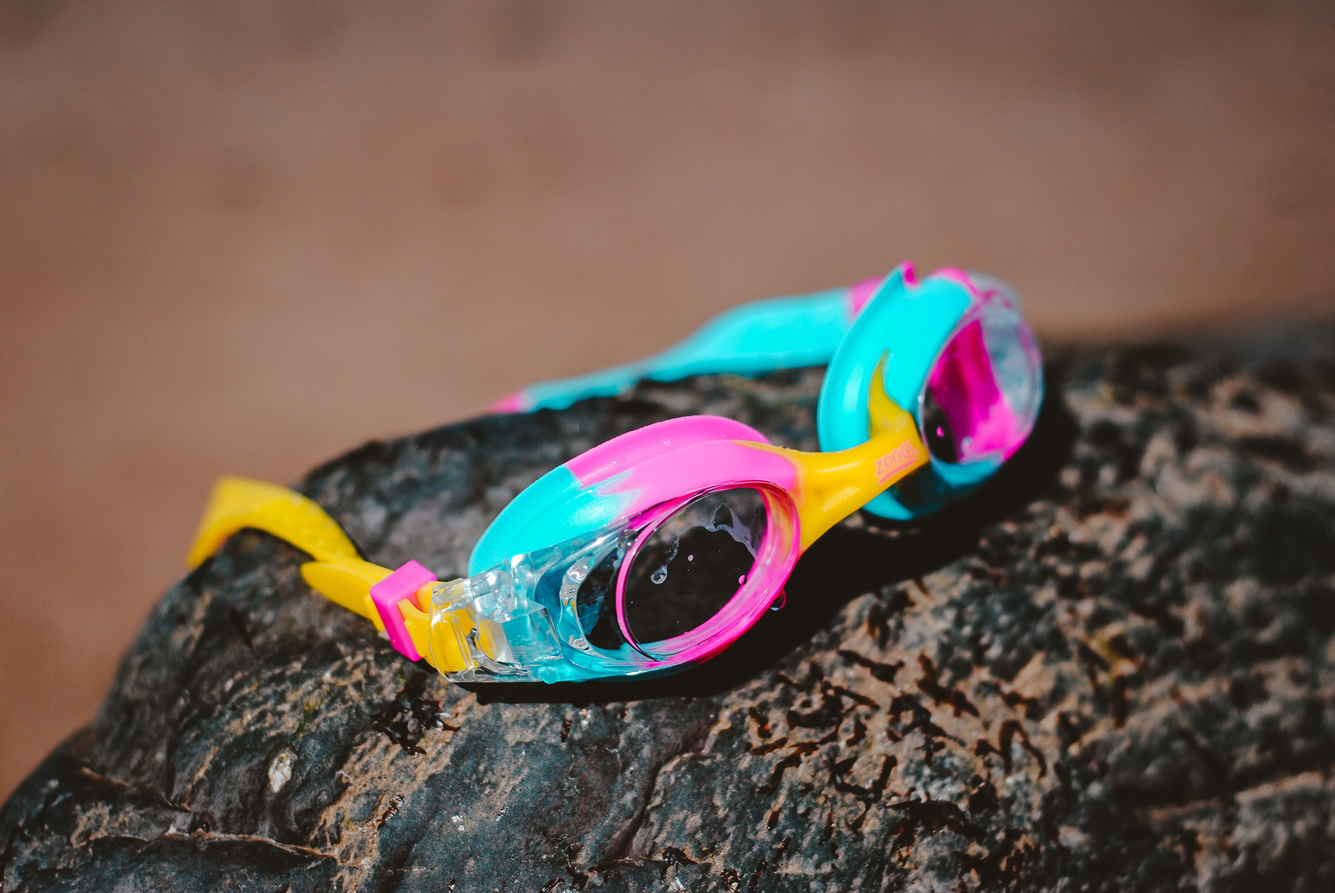
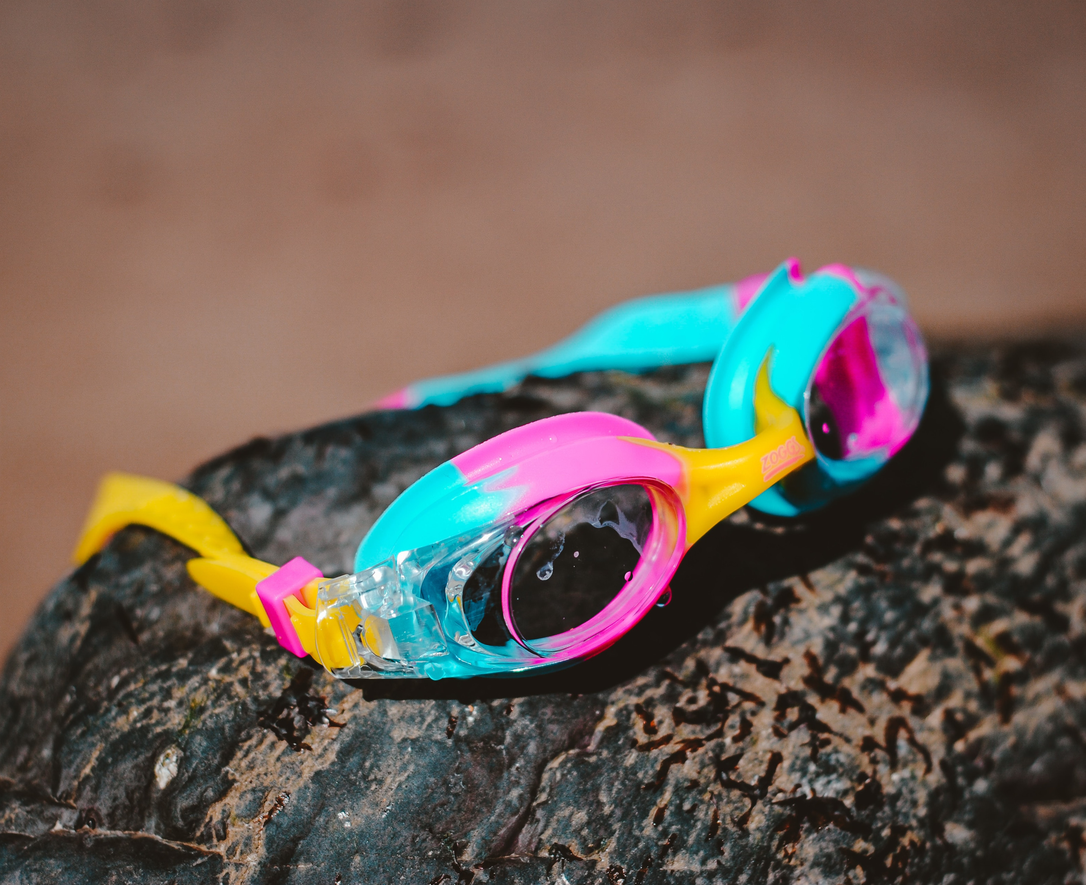
Header

diff --git a/src/stylesheets/Header.css b/src/stylesheets/Header.css
@@ -1,19 +1,70 @@
-.header-container{
+.header-container {
   display: grid;
-  width:100%;
-  min-height: 75%;
-  background-color:#00ffff;
+  grid-template-columns: repeat(1fr, 12);
+  grid-template-rows: repeat(1fr, 2);
+  gap: 0.5%;
+  width: 100vw;
+  margin: 0 10px;
+  min-height: 40vh;
   background-image: url('../images/kids-ball.jpg')
 }
 
-.header-logo{
-  display: grid;
-  grid-template-columns: 1/2;
-  grid-template-rows: 1/2;
+.header-logo-container {
+  grid-column: 1/3;
+  grid-row: 1/2;
+  display: flex;
+  flex-wrap:nowrap;
+  flex-direction: row;
+  align-items: center;
+  justify-content: space-around;
+  align-content: space-around;
+  font-family: Cookie, Arial, Helvetica, sans-serif;
+  text-shadow: 2px 2px 5px #000000;
+  font-size: 3em;
+  color: #ffffff;
 }
 
-.header-navbar{
-  display: grid;
-  grid-template-columns: 3/10;
-  grid-template-rows: 1/2;
+.header-navbar-container {
+  grid-column: 3/10;
+  grid-row: 1/2;
+  display: flex;
+  flex-wrap:nowrap;
+  flex-direction: row;
+  align-items: center;
+  justify-content: space-around;
+  align-content: space-around;
+  text-shadow: 2px 2px 5px #000000;
+  font-family: Lato, sans-serif;
+  font-size: 0.75em;
+  color: #ffffff;
 }
+
+.header-log-container {
+  grid-column: 10/12;
+  grid-row: 1/2;
+  display: flex;
+  flex-wrap:nowrap;
+  flex-direction: row;
+  align-items: center;
+  justify-content: space-around;
+  align-content: space-around;
+  font-family: Lato, sans-serif;
+  font-stretch: condensed;
+  text-shadow: 2px 2px 5px #000000;
+  font-size: 0.75em;
+  color: #ffffff;
+}
+
+.header-title-container {
+  grid-column: 1/12;
+  grid-row: 2/3;
+  color: #ffffff;
+  text-shadow: 2px 2px 5px #000000;
+  display: flex;
+  flex-wrap:nowrap;
+  flex-direction: row;
+  align-items: center;
+  justify-content: space-around;
+  align-content: space-around;
+}
+

diff --git a/src/components/Social.js b/src/components/Social.js
@@ -9,11 +9,12 @@ function Social() {
         <p className='product-description'>#ESPUFI</p>
       </div>
       <div className='social-images-container'>
-        <img className='social-image' src={require('../images/kids-ball.jpg')} alt='girl floating in a donut floater' />
-        <img className='social-image' src={require('../images/floaters.jpg')} alt='girl floating in a donut floater' />
-        <img className='social-image' src={require('../images/summer-stuff.jpg')} alt='girl floating in a donut floater' />
-        <img className='social-image' src={require('../images/swimsuits.jpg')} alt='girl floating in a donut floater' />
+        <img className='social-image' src={require('../images/kids-ball.jpg')} alt='playful ball for kids' />
+        <img className='social-image' src={require('../images/floaters.jpg')} alt='donut and pineapple floaters' />
+        <img className='social-image' src={require('../images/summer-stuff.jpg')} alt='a knitted chair in summer' />
+        <img className='social-image' src={require('../images/swimsuits.jpg')} alt='abunch of colorful swimsuits' />
         <img className='social-image' src={require('../images/girl-floating.jpg')} alt='girl floating in a donut floater' />
+        <img className='social-image' src={require('../images/colorful-goggles.jpg')} alt='a bunch of colorful goggles' />
       </div>
     </div>
   );

diff --git a/src/stylesheets/Product.css b/src/stylesheets/Product.css
@@ -1,23 +1,41 @@
 .product-container {
-  width: 1170px;
-  height: 368px;
-  margin: 10px 10px 50px;
+  width: 100vw;
+  margin: 0;
   display: flex;
+  justify-content: space-between;
   align-items: center;
-  justify-content: center;
   background-color: #ffffff;
   box-shadow: 0 3px 13px 1px rgb(0 0 0 / 9%);
 }
 
 .product-image {
-  height: 50vh;
-  width: 50vh;
+  width: 50vw;
+  height: auto;
 }
 
 .product-text-container {
   text-align: center;
+  justify-content: center;
   padding: 40px;
-  font-family: Karma, serif;
-  font-weight: 400;
-  line-height: 1.5rem;
+}
+
+.product-name {
+  font-family: 'Bree Serif', sans-serif;
+  font-weight: 500;
+  font-size: 1.5rem;
+  line-height: 1.75;
+}
+
+.product-description {
+  font-family: Lato, sans-serif;
+  font-weight: 300;
+  font-size: 0.75rem;
+  line-height: 1.25;
+}
+
+.gray-bar {
+  height: 1vh;
+  width: 10vw;
+  margin: 2vh auto;
+  background-color: gray;
 }

diff --git a/src/components/Header.js b/src/components/Header.js
@@ -5,16 +5,16 @@ function Header() {
   return (
     <div className='header-container'>
       <div className='header-logo-container'>
-        <p className='product-name'>PUFI</p>
+        <p className='product-name'>Pufi</p>
       </div>
       <div className='header-navbar-container'>
-        <p className='navbar-link'>PUFI Rain</p>
-        <p className='navbar-link'>PUFI Puff</p>
-        <p className='navbar-link'>PUFI Cart</p>
-        <p className='navbar-link'>PUFI Nap</p>
+        <div>PUFI Rain</div>
+        <div>PUFI Puff</div>
+        <div>PUFI Cart</div>
+        <div>PUFI Nap</div>
       </div>
       <div className='header-log-container'>
-        <p className='product-name'>HOME | MY CART</p>
+        <p>HOME | MY CART</p>
       </div>
       <div className='header-title-container'>
         <h1>ESTAR CÓMODO, NUNCA FUE TAN FÁCIL</h1>

diff --git a/public/index.html b/public/index.html
@@ -18,6 +18,8 @@
   <link href="https://fonts.googleapis.com/css2?family=Karma:wght@400&display=swap" rel="stylesheet">
   <link href="https://fonts.googleapis.com/css2?family=Pacifico:wght@400&display=swap" rel="stylesheet">
   <link href="https://fonts.googleapis.com/css2?family=Cookie:wght@400&display=swap" rel="stylesheet">
+  <link href="https://fonts.googleapis.com/css2?family=Lato:wght@400&display=swap" rel="stylesheet">
+  <link href="https://fonts.googleapis.com/css2?family=Bree Serif:wght@400&display=swap" rel="stylesheet">
   <link rel="manifest" href="%PUBLIC_URL%/manifest.json" />
   <!--
       Notice the use of %PUBLIC_URL% in the tags above.

diff --git a/src/components/Product.js b/src/components/Product.js
@@ -7,6 +7,7 @@ function Product() {
       <img className='product-image' src={require('../images/girl-floating.jpg')} alt='girl floating in a donut floater' />
       <div className='product-text-container'>
         <p className='product-name'>PUFI Rain</p>
+        <p className='gray-bar'></p>
         <p className='product-description'>Descripción del Producto. Este es un texto simulado</p>
       </div>
     </div>

diff --git a/src/stylesheets/Social.css b/src/stylesheets/Social.css
@@ -1,4 +1,17 @@
-.social-image{
-    width: 100px;
-    height: 100px;
+.social-container {
+  padding: 0;
+  margin: 0;
+}
+
+.social-images-container {
+  padding: 0;
+  margin: 0;
+  width: 30vw;
+}
+
+.social-image {
+  padding: 0;
+  margin: 0;
+  width: 10vw;
+  height: 10vw;
 }

diff --git a/src/stylesheets/Footer.css b/src/stylesheets/Footer.css
@@ -1,6 +1,12 @@
 .footer-container {
-  width: 100%;
+  margin: 10%;
+  width: 100vw;
   display: flex;
-  flex-direction: column;
+  flex-direction: row;
   flex-wrap: nowrap;
+  align-items: flex-start;
+}
+
+.footer-first-column-container {
+  font-family: Arial, sans-serif;
 }
